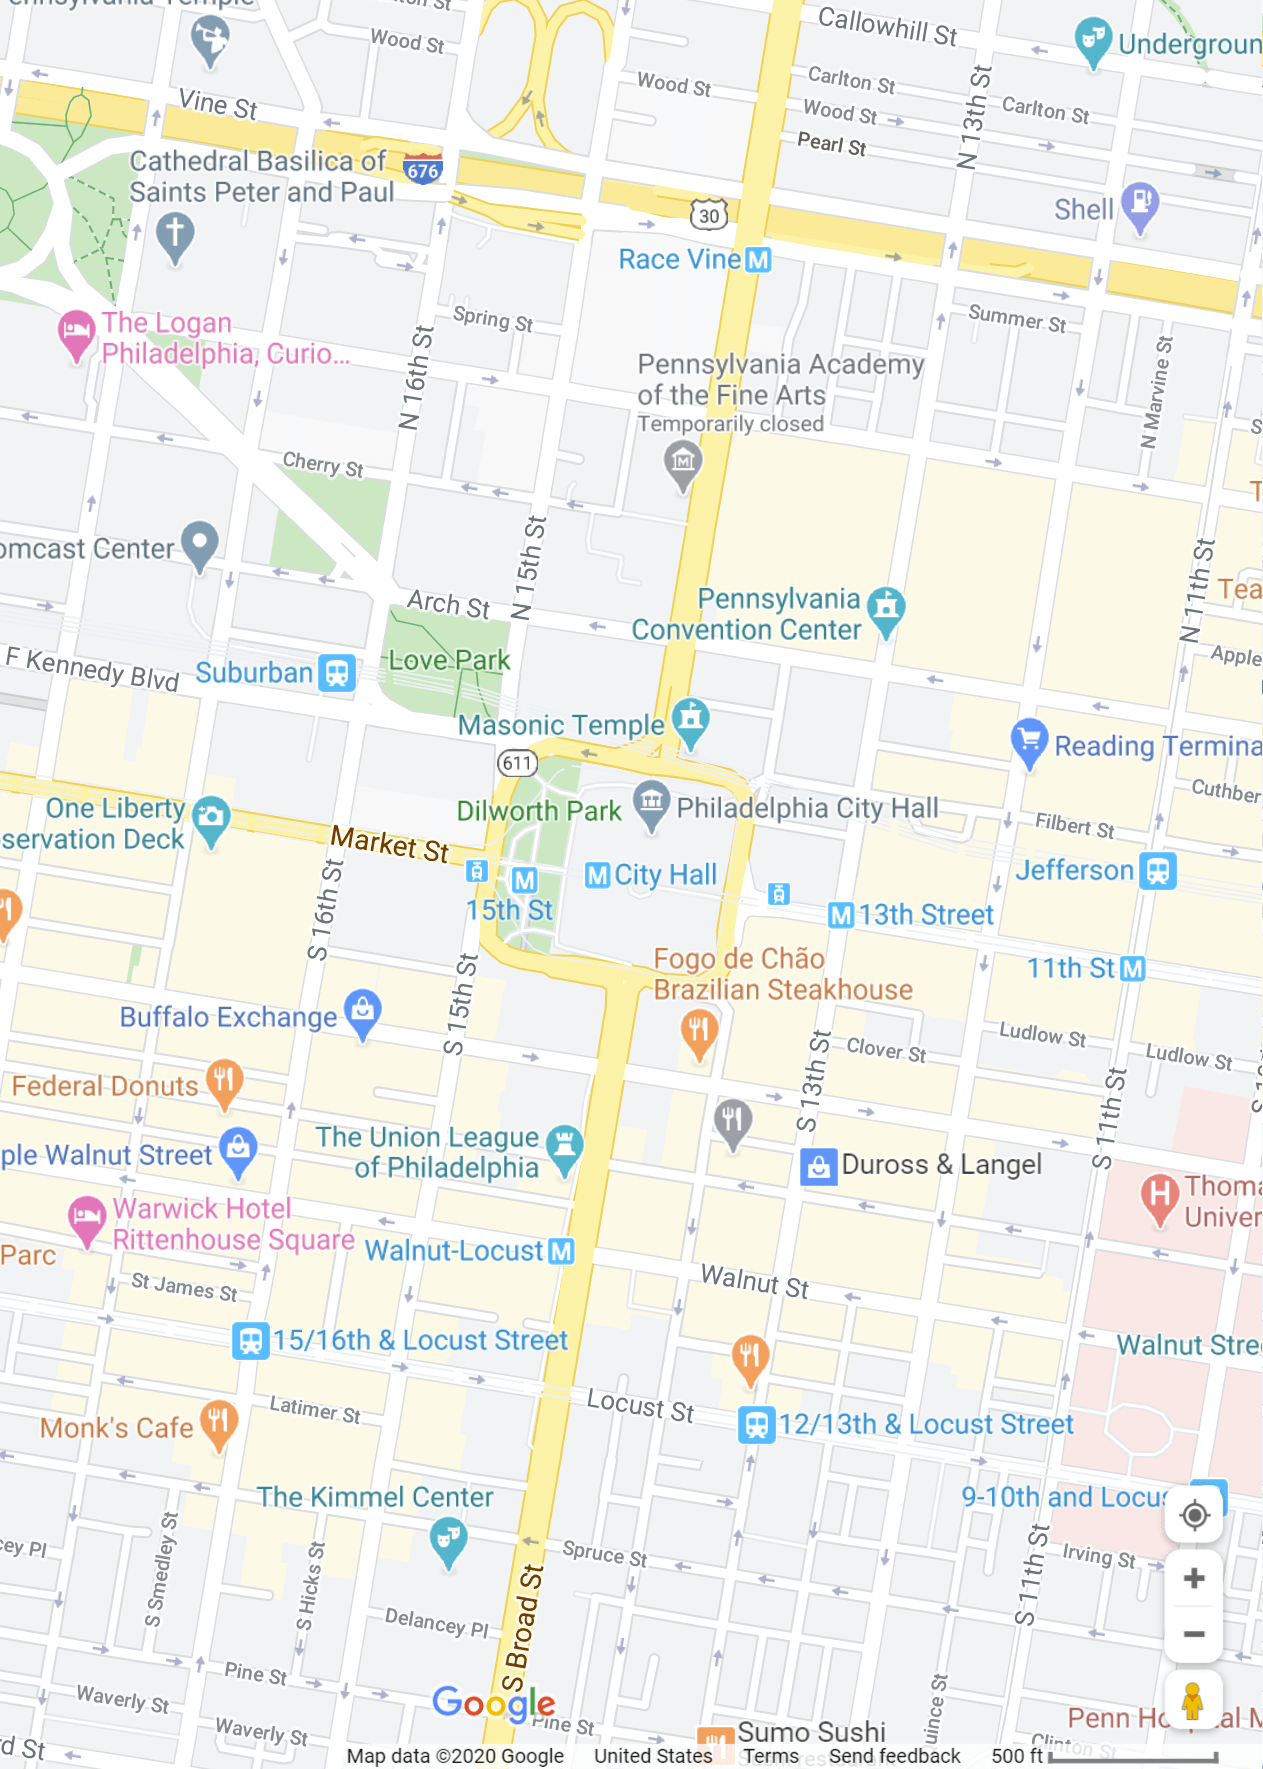
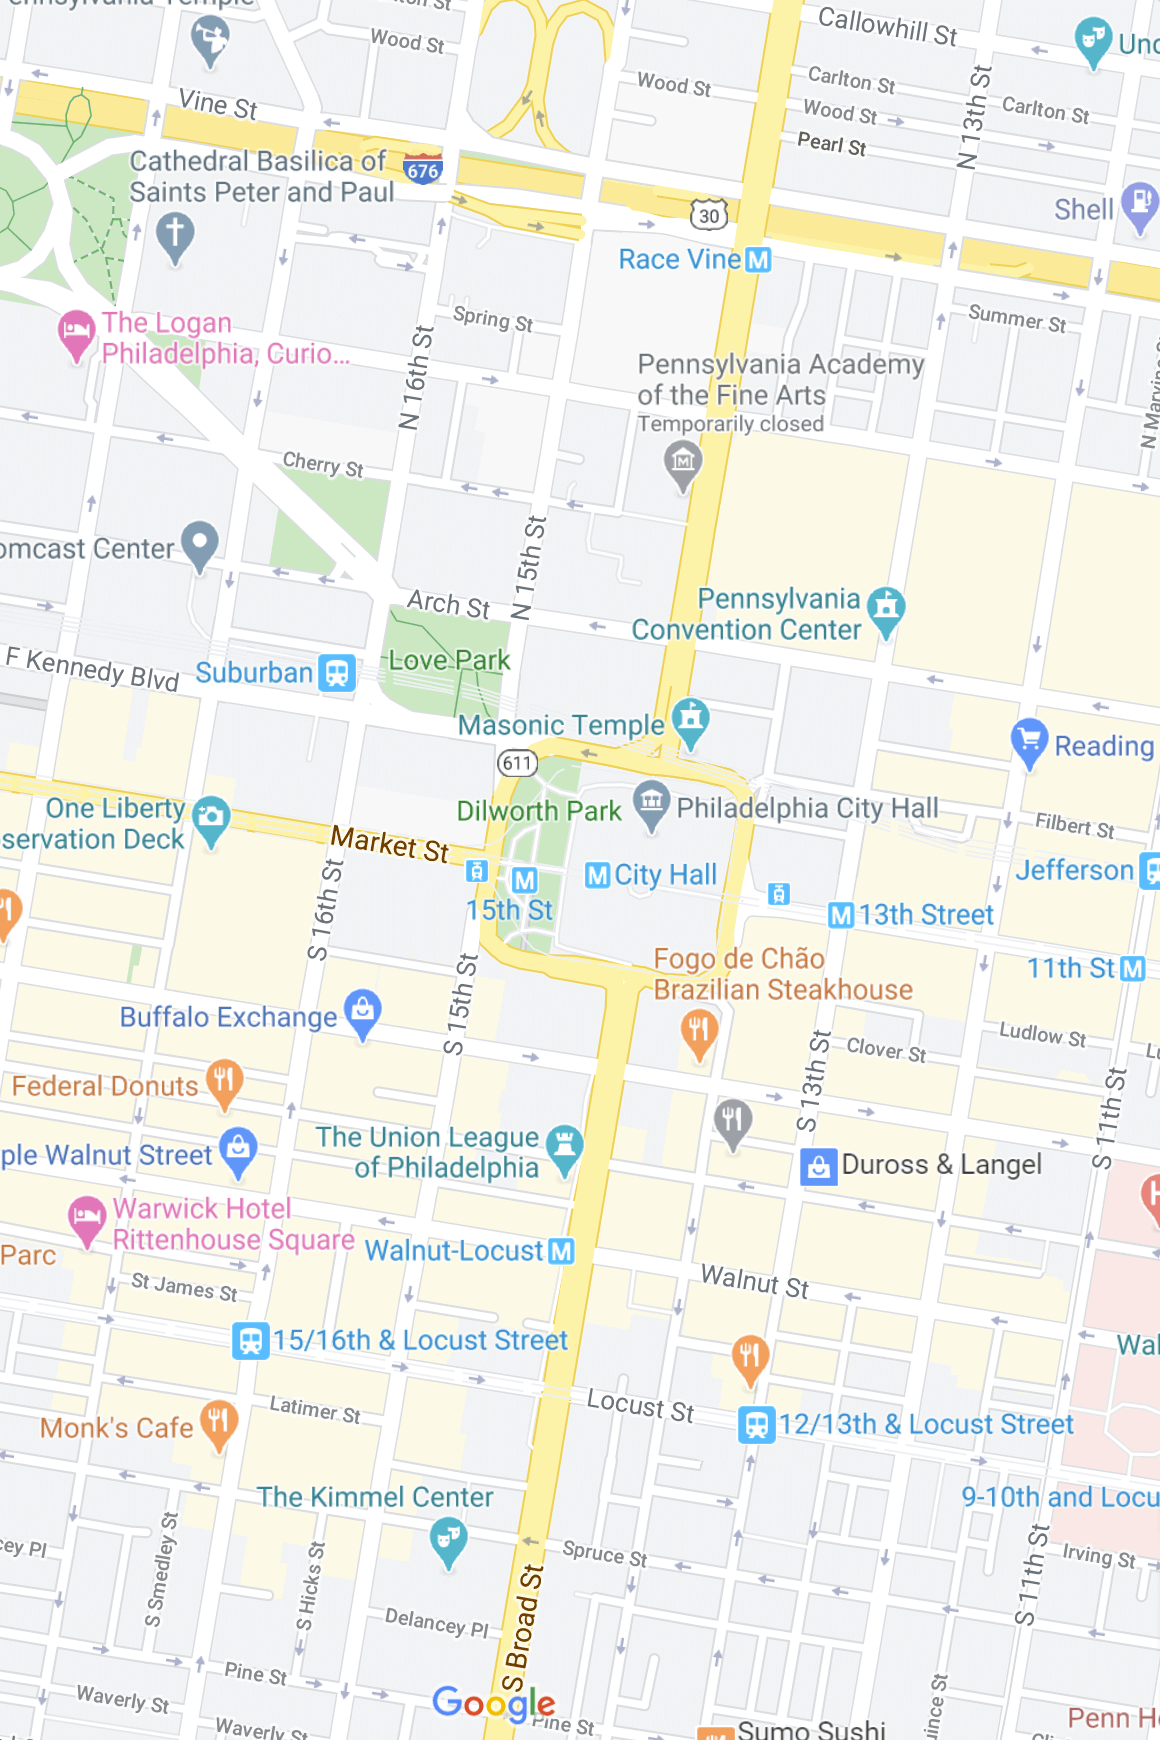
Cropped Map.png
* Some crontrols were visible in map.png, they have been cropped out

diff --git a/beta/prototype.php b/beta/prototype.php
@@ -43,7 +43,7 @@
 
       <div id="home" class="home" onclick="closeNav()">
          <!-- <iframe class="maps-iframe" src="https://www.google.com/maps/embed?pb=!1m18!1m12!1m3!1d24467.884007121145!2d-75.17777023713809!3d39.95289673297466!2m3!1f0!2f0!3f0!3m2!1i1024!2i768!4f13.1!3m3!1m2!1s0x89c6c62f36fbe869%3A0xa436e1d13cf7c05b!2sCenter%20City%2C%20Philadelphia%2C%20PA!5e0!3m2!1sen!2sus!4v1597365323781!5m2!1sen!2sus" frameborder="0" style="border:0;" allowfullscreen="no" aria-hidden="true" tabindex="0"></iframe> -->
-         <img src="assets/svg/prototype/home_destination.svg">
+         <img class="landing-bg" src="assets/img/map.PNG">
          <div class="landing-footer shadow">
             <img class="help-btn" src="assets/svg/prototype/home_helpButton.svg">
             <h2>Hey there, Jeffery</h2>
